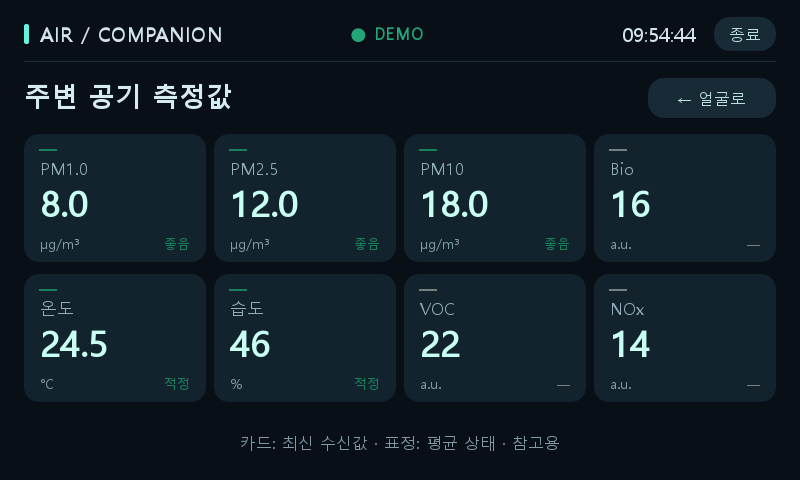
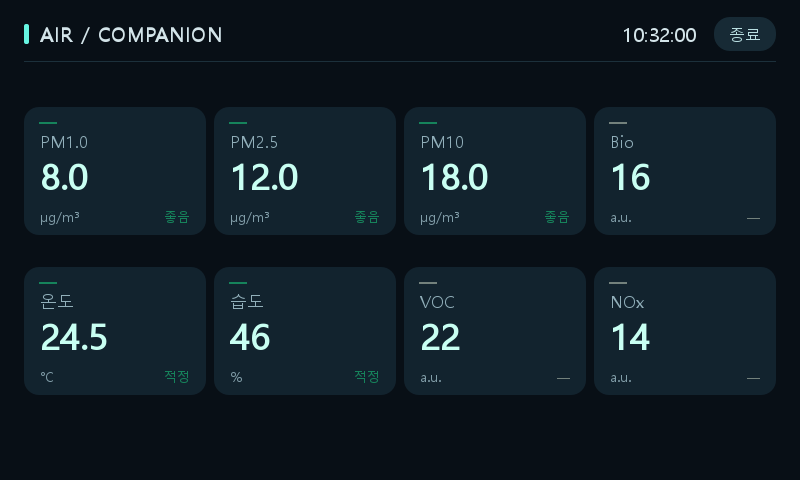
Update runtime UI previews and documentation

diff --git a/preview_robot.py b/preview_robot.py
@@ -1,0 +1,170 @@
+"""Render the current runtime Qt UI to the two README preview images."""
+import os
+from pathlib import Path
+os.environ['QT_QPA_PLATFORM'] = 'offscreen'
+from qt_compat import (QApplication, QImage, QPainter, QPainterPath, QColor,
+                       QFont, QFontDatabase, QPen, QRectF, Qt)
+
+
+def render_legacy_concept():
+    app = QApplication.instance() or QApplication([])
+    family = 'Noto Sans CJK KR'
+    if os.name == 'nt':
+        QFontDatabase.addApplicationFont(str(Path(os.environ['WINDIR']) / 'Fonts' / 'malgun.ttf'))
+        family = 'Malgun Gothic'
+    for detail in (False, True):
+        img = QImage(800, 480, QImage.Format_ARGB32)
+        img.fill(QColor('#F4F7EF'))
+        p = QPainter(img)
+        p.setRenderHint(QPainter.Antialiasing)
+
+        def box(x, y, w, h, color, r=20):
+            p.setPen(Qt.NoPen)
+            p.setBrush(QColor(color))
+            p.drawRoundedRect(QRectF(x, y, w, h), r, r)
+
+        def ellipse(x, y, w, h, color):
+            p.setPen(Qt.NoPen)
+            p.setBrush(QColor(color))
+            p.drawEllipse(QRectF(x, y, w, h))
+
+        def text(x, y, w, h, s, size=20, color='#284D43', bold=False, align=Qt.AlignCenter):
+            f = QFont(family)
+            f.setPixelSize(size)
+            f.setBold(bold)
+            p.setFont(f)
+            p.setPen(QColor(color))
+            p.drawText(QRectF(x, y, w, h), align | Qt.AlignVCenter, s)
+
+        def stroke(points, width=9, color='#CDF9DA'):
+            pen = QPen(QColor(color), width)
+            pen.setCapStyle(Qt.RoundCap)
+            p.setPen(pen)
+            p.setBrush(Qt.NoBrush)
+            path = QPainterPath()
+            path.moveTo(*points[0])
+            path.cubicTo(*points[1], *points[2], *points[3])
+            p.drawPath(path)
+
+        text(28, 19, 200, 30, 'AIR BUDDY', 20, bold=True, align=Qt.AlignLeft)
+        text(640, 19, 130, 30, '10:32', 22, align=Qt.AlignRight)
+        if not detail:
+            text(175, 61, 450, 34, '안녕! 여기 공기는 내가 살펴볼게요.', 23)
+            # Calm background halo and floating robot silhouette.
+            ellipse(210, 103, 380, 252, '#E5EFDD')
+            ellipse(276, 322, 248, 22, '#DCE6D5')
+            box(387, 106, 26, 38, '#AACDB7', 12)
+            ellipse(384, 99, 32, 27, '#5FB990')
+            box(212, 203, 35, 61, '#AACDB7', 15)
+            box(553, 203, 35, 61, '#AACDB7', 15)
+            box(241, 142, 318, 181, '#C4DAC6', 54)
+            box(240, 135, 320, 181, '#FFFFFF', 54)
+            box(263, 158, 274, 132, '#284D43', 37)
+            stroke([(309, 216), (314, 192), (337, 192), (342, 216)])
+            stroke([(458, 216), (463, 192), (486, 192), (491, 216)])
+            stroke([(377, 239), (386, 255), (414, 255), (423, 239)], 7)
+            ellipse(291, 231, 28, 12, '#74AD96')
+            ellipse(481, 231, 28, 12, '#74AD96')
+            ellipse(391, 299, 18, 6, '#93C4A7')
+            # Deliberate spare decoration: two little glints.
+            text(157, 156, 48, 48, '+', 39, '#94BA8F')
+            text(602, 253, 32, 32, '+', 26, '#94BA8F')
+            text(160, 345, 480, 49, '지금 공기가 좋아요', 32, bold=True)
+            text(140, 405, 520, 34, '나를 톡 누르면 주변 공기 수치를 보여줄게요', 20, '#6B8275')
+        else:
+            text(28, 65, 530, 40, '우리 주변 공기, 조금 더 자세히', 27, bold=True, align=Qt.AlignLeft)
+            box(648, 68, 124, 42, '#E1EBDA', 21)
+            text(648, 68, 124, 42, '← 돌아가기', 18)
+            cards = [('PM1.0', '0.9', 'µg/m³'), ('PM2.5', '1.1', 'µg/m³'),
+                     ('PM10', '1.2', 'µg/m³'), ('Bio', '0', '개수'),
+                     ('온도', '35.5', '°C'), ('습도', '32.7', '%'),
+                     ('VOC', '0', 'a.u.'), ('NOx', '0', 'a.u.')]
+            for i, (name, value, unit) in enumerate(cards):
+                x, y = 28 + (i % 4) * 190, 127 + (i // 4) * 143
+                box(x, y, 174, 131, '#FFFFFF', 22)
+                text(x + 14, y + 10, 146, 27, name, 19, '#6B8275')
+                text(x + 10, y + 42, 154, 47, value, 35, bold=True)
+                text(x + 10, y + 94, 154, 24, unit, 17, '#7C9185')
+            text(28, 426, 744, 30, '공기 수치를 살펴본 뒤에는 에어봇이 다시 인사할게요.', 19, '#6B8275')
+        p.end()
+        name = 'robot_detail_preview.png' if detail else 'robot_home_preview.png'
+        assert img.save(str(Path(__file__).with_name(name)))
+        print(name)
+
+
+PREVIEW_VALUES = {
+    'PM1.0': 8.0,
+    'PM2.5': 12.0,
+    'PM10': 18.0,
+    'Bio': 16.0,
+    'Temperature': 24.5,
+    'Humidity': 46.0,
+    'VOC': 22.0,
+    'NOx': 14.0,
+}
+
+
+def _process_until(app, condition, timeout_sec=3.0):
+    """Process Qt events until the preview worker reaches a stable state."""
+    import time
+    deadline = time.monotonic() + timeout_sec
+    while not condition() and time.monotonic() < deadline:
+        app.processEvents()
+        time.sleep(0.01)
+    app.processEvents()
+    if not condition():
+        raise RuntimeError('Timed out while preparing the preview window')
+
+
+def _save_window(window, filename):
+    target = Path(__file__).resolve().with_name(filename)
+    image = window.grab()
+    if image.isNull() or not image.save(str(target)):
+        raise RuntimeError('Could not save preview: %s' % target)
+    print(filename)
+
+
+def render():
+    """Capture the real runtime widgets used by the application."""
+    import time
+    import sensor_data
+    sensor_data.SOURCE_MODE = 'demo'
+    from dashboard import MainWindow
+    from robot_led import RobotDisplayState
+
+    app = QApplication.instance() or QApplication([])
+    app.setQuitOnLastWindowClosed(False)
+    if os.name == 'nt':
+        QFontDatabase.addApplicationFont(str(Path(os.environ['WINDIR']) / 'Fonts' / 'malgun.ttf'))
+        app.setFont(QFont('Malgun Gothic'))
+
+    window = MainWindow()
+    window.show()
+    _process_until(app, lambda: not window._busy)
+    window.data_timer.stop()
+    window.demo_state_timer.stop()
+    window.clock_timer.stop()
+    window.clock.setText('10:32:00')
+
+    # Fix the state and animation phase so repeated renders are deterministic.
+    window.robot_home_page.show_state(
+        RobotDisplayState.MONITORING, '환경 확인 중', '')
+    window.robot_home_page.face.animation_started_at = time.monotonic()
+    window.pages.setCurrentWidget(window.robot_home_page)
+    app.processEvents()
+    _save_window(window, 'demo_robot_home.png')
+
+    window.display_values(PREVIEW_VALUES, sensor_data.MAIN_VALUE)
+    window.pages.setCurrentWidget(window.dashboard_page)
+    window.detail_return_timer.stop()
+    app.processEvents()
+    _save_window(window, 'demo_preview.png')
+
+    window.close()
+    _process_until(app, lambda: not window.sensor_thread.isRunning())
+    window.sensor_thread.wait()
+    app.processEvents()
+
+
+if __name__ == '__main__':
+    render()

diff --git a/robot_ui.py b/robot_ui.py
@@ -16,6 +16,7 @@ class RobotFaceWidget(QPushButton):
         self.animation_timer.setInterval(50)
         self.animation_timer.timeout.connect(self.update)
         self.setFlat(True)
+        self.setFocusPolicy(Qt.NoFocus)
 
     def set_expression(self, expression):
         if self.animation.set_expression(expression):
@@ -54,10 +55,6 @@ class RobotFaceWidget(QPushButton):
             self.paint_eye(p, x, accent, frame)
         self.paint_mouth(p, accent, frame)
         self.paint_state_symbol(p, accent, frame)
-        if self.hasFocus() and self.isEnabled():
-            p.setPen(QPen(QColor('#66F4E1'), 1))
-            p.setBrush(Qt.NoBrush)
-            p.drawRoundedRect(QRectF(2, 2, 748, 300), 34, 34)
         p.end()
 
 

diff --git a/README.md b/README.md
@@ -11,7 +11,7 @@
 - VOC/NOx/Bio는 표시 전용이며 종합 표정에서 제외
 - 데모 모드, 종료 처리, 중복 실행 방지, systemd watchdog 지원
 
-상세 카드는 최신 수신값, 얼굴은 평균과 확정 결과를 표시합니다. 센서 대기 중 상세 진입은 차단됩니다. 상세 화면은 읽기 전용이며 화면을 다시 터치하거나 5초가 지나면 얼굴 화면으로 복귀합니다. 복귀 시간은 `SENSOR_DETAIL_TIMEOUT_SEC`에서 조정합니다. 공식 AQI나 건강 안전 판정이 아닙니다. 판정 근거는 [SENSOR_CRITERIA.md](SENSOR_CRITERIA.md)를 참고하세요.
+상세 카드는 최신 수신값, 얼굴은 평균과 확정 결과를 표시합니다. 센서 대기 중 상세 진입은 차단됩니다. `MONITORING` 이후에는 로봇 홈 영역을 터치해 상세 화면으로 이동할 수 있습니다. 상세 화면은 읽기 전용이며 화면을 다시 터치하거나 설정 시간이 지나면 얼굴 화면으로 복귀합니다. 공식 AQI나 건강 안전 판정이 아닙니다. 판정 근거는 [SENSOR_CRITERIA.md](SENSOR_CRITERIA.md)를 참고하세요.
 
 ## 기술 스택
 
@@ -19,7 +19,16 @@ Python, PySide6(Windows 개발), PySide2/Qt 5(기존 Raspberry Pi 환경), QPain
 
 ### V1 화면 호환성 보완
 
-Pi의 Qt 5와 Windows Qt 6에서 헤더·상세·홈·종료 화면 및 바깥 여백을 어두운 배경으로 명시합니다. 각 컨테이너에 `WA_StyledBackground`를 적용했습니다. 헤더의 DEMO/연결 알림은 숨기고, 상세 화면 하단에는 갱신 경과시간·수신 지연 안내를 유지합니다. 분석 및 통신 기준은 변경하지 않았습니다. 배포 시 `dashboard.py`, `robot_ui.py`, `robot_led.py`를 함께 복사하세요. 실제 Pi 렌더링은 재확인이 필요합니다.
+Pi의 Qt 5와 Windows Qt 6에서 헤더·상세·홈·종료 화면 및 바깥 여백을 어두운 배경으로 명시합니다. 각 컨테이너에 `WA_StyledBackground`를 적용했습니다. 헤더의 DEMO/연결 알림은 숨겼습니다. 로봇 홈은 얼굴 아래 상태 제목만 표시하고, 상세 화면은 별도 제목·갱신 경과시간·수신 지연·안내 문구 없이 8개 센서 카드만 표시합니다. 터치 후 얼굴에 남던 버튼 포커스 테두리도 제거했습니다. 분석 및 통신 기준은 변경하지 않았습니다. 배포 시 `dashboard.py`, `robot_ui.py`, `robot_led.py`, `sensor_data.py`, `app_config.ini`를 함께 복사하세요. 실제 Pi 렌더링은 재확인이 필요합니다.
+
+### UI 설정
+
+센서 상세 화면의 자동 복귀 시간은 `app_config.ini`에서 초 단위로 변경합니다. 설정은 프로그램을 다시 시작할 때 적용됩니다. 파일이 없거나 값이 잘못됐거나 0 이하이면 5초를 사용합니다.
+
+```ini
+[ui]
+sensor_detail_timeout_sec = 5
+```
 
 ### V2 얼굴 애니메이션
 
@@ -82,6 +91,15 @@ if (!(Test-Path sensor_connection_local.py)) { Copy-Item sensor_connection_examp
 ```
 
 테스트는 가짜 포트/데이터와 offscreen Qt를 사용합니다. 실제 장비 전용 패킷 테스트는 공개하지 않습니다. `check_demo.py`는 미리보기 PNG를 생성합니다.
+
+README에 사용하는 현재 런타임 UI 이미지는 다음 명령으로 다시 생성합니다. `preview_robot.py`는 별도의 목업을 그리지 않고 실제 `MainWindow`, 로봇 홈 위젯, 센서 카드 위젯을 캡처합니다. 홈 이미지는 `MONITORING / 환경 확인 중` 상태로 고정됩니다.
+
+```powershell
+.\.venv\Scripts\python.exe preview_robot.py
+```
+
+- `demo_robot_home.png`: MONITORING 로봇 홈 화면
+- `demo_preview.png`: 고정 예시값을 표시한 8개 센서 카드 화면
 
 ## 공개 범위와 현재 상태
 
